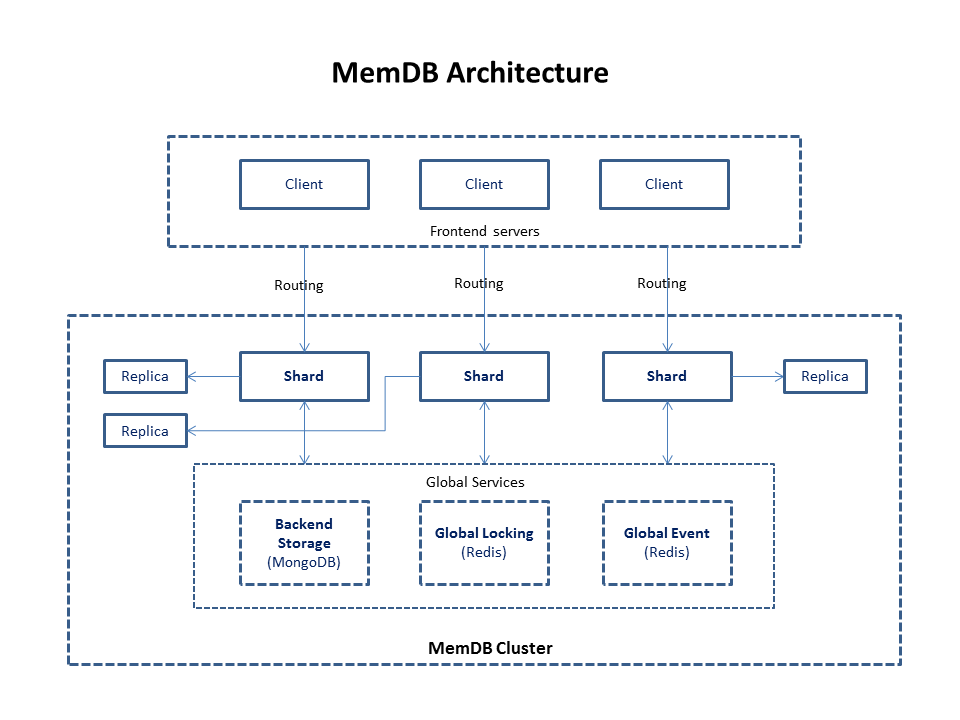
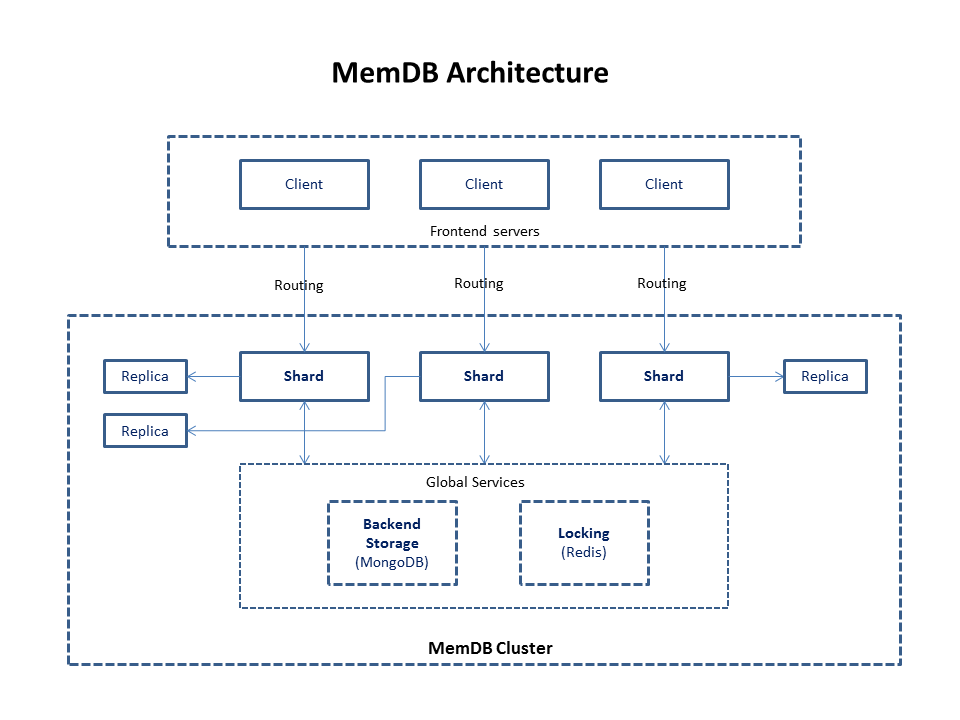
update doc

diff --git a/README.md b/README.md
@@ -13,9 +13,7 @@ Distributed transactional in memory database
 
 - [x] __Transaction__ : Full transaction support like traditional database, data consistency is guaranteed. 'row' based locking mechanism is used.
 
-- [x] __Object Based__ : JSON object based data, schemaless.
-
-- [x] __High Availability__ : Each shard is backed by one or more replica, you will never lose any commited data.
+- [x] __Simple__ : Mongodb-like API, very easy to learn if you have a mongodb background.
 
 __Comparison with other databases__
 

diff --git a/doc/v0.3.0.md b/doc/v0.3.0.md
@@ -10,5 +10,9 @@
 - [x] - Cluster support for backend mongo and redis
 - [x] - Index rebuild
 - [x] - Multiple shards support for memdb client
+- [x] - Remove Global Event
 - [x] - Full code review
-- [ ] - Stress test
+- [x] - Stress test
+
+# v0.4.0 Plan
+- [ ] - redis-sentinel
